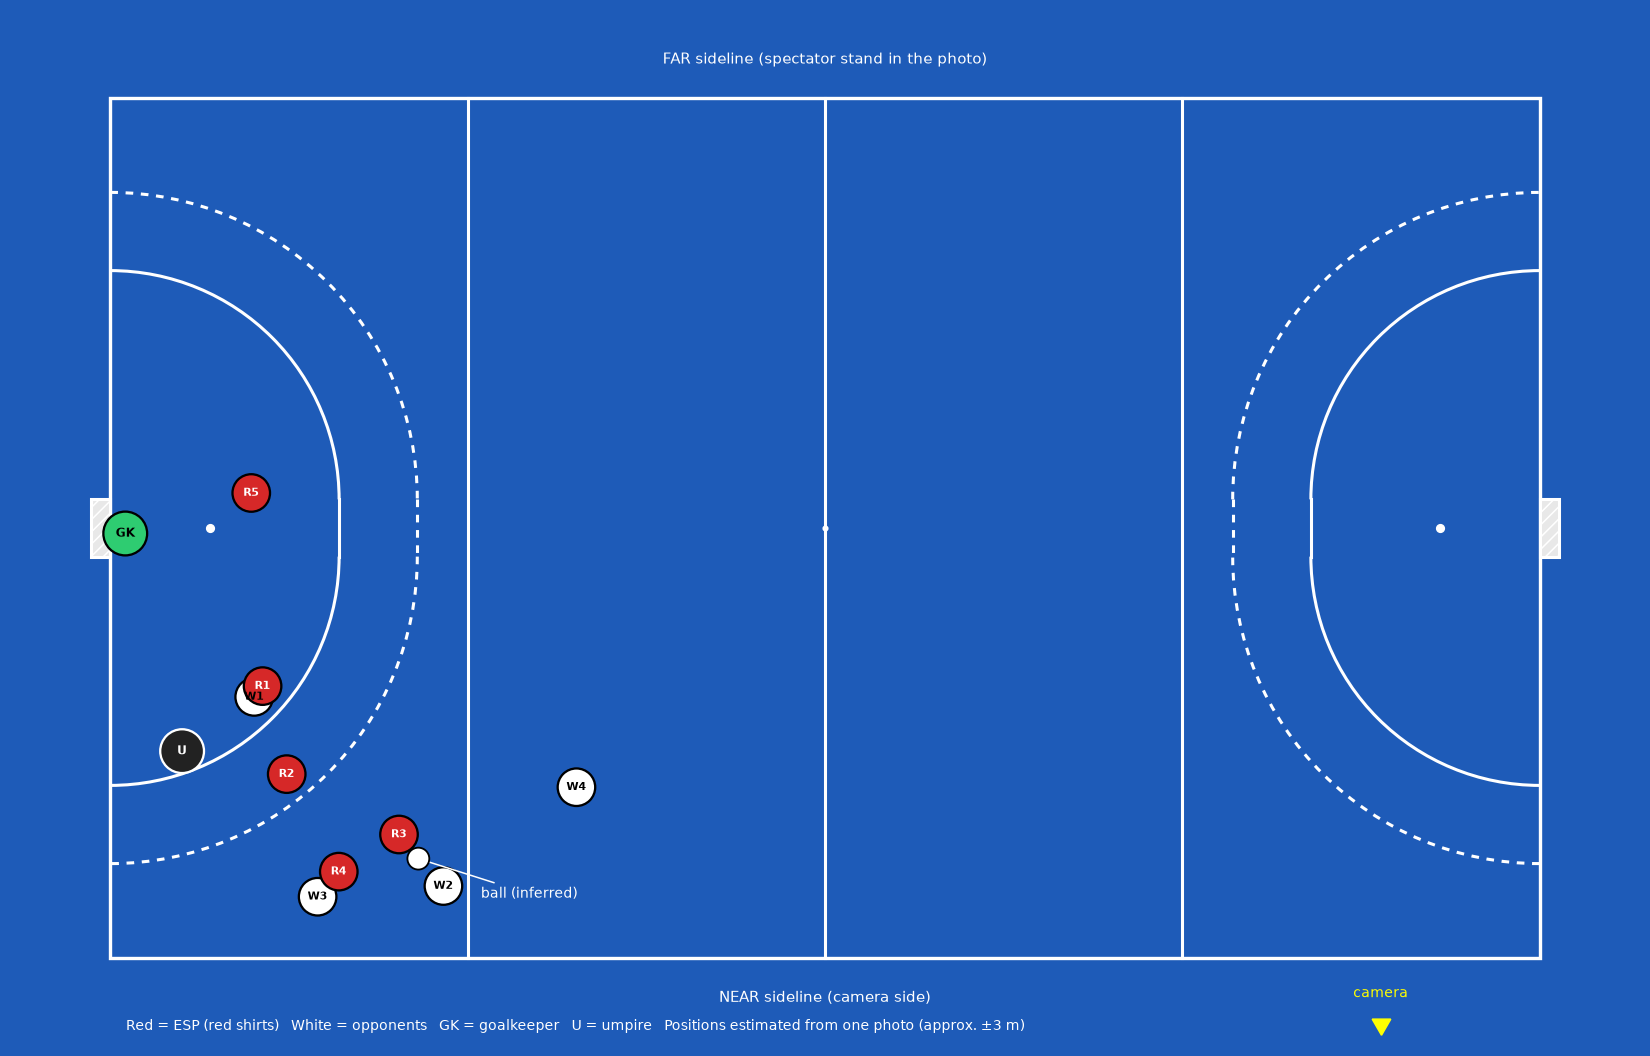
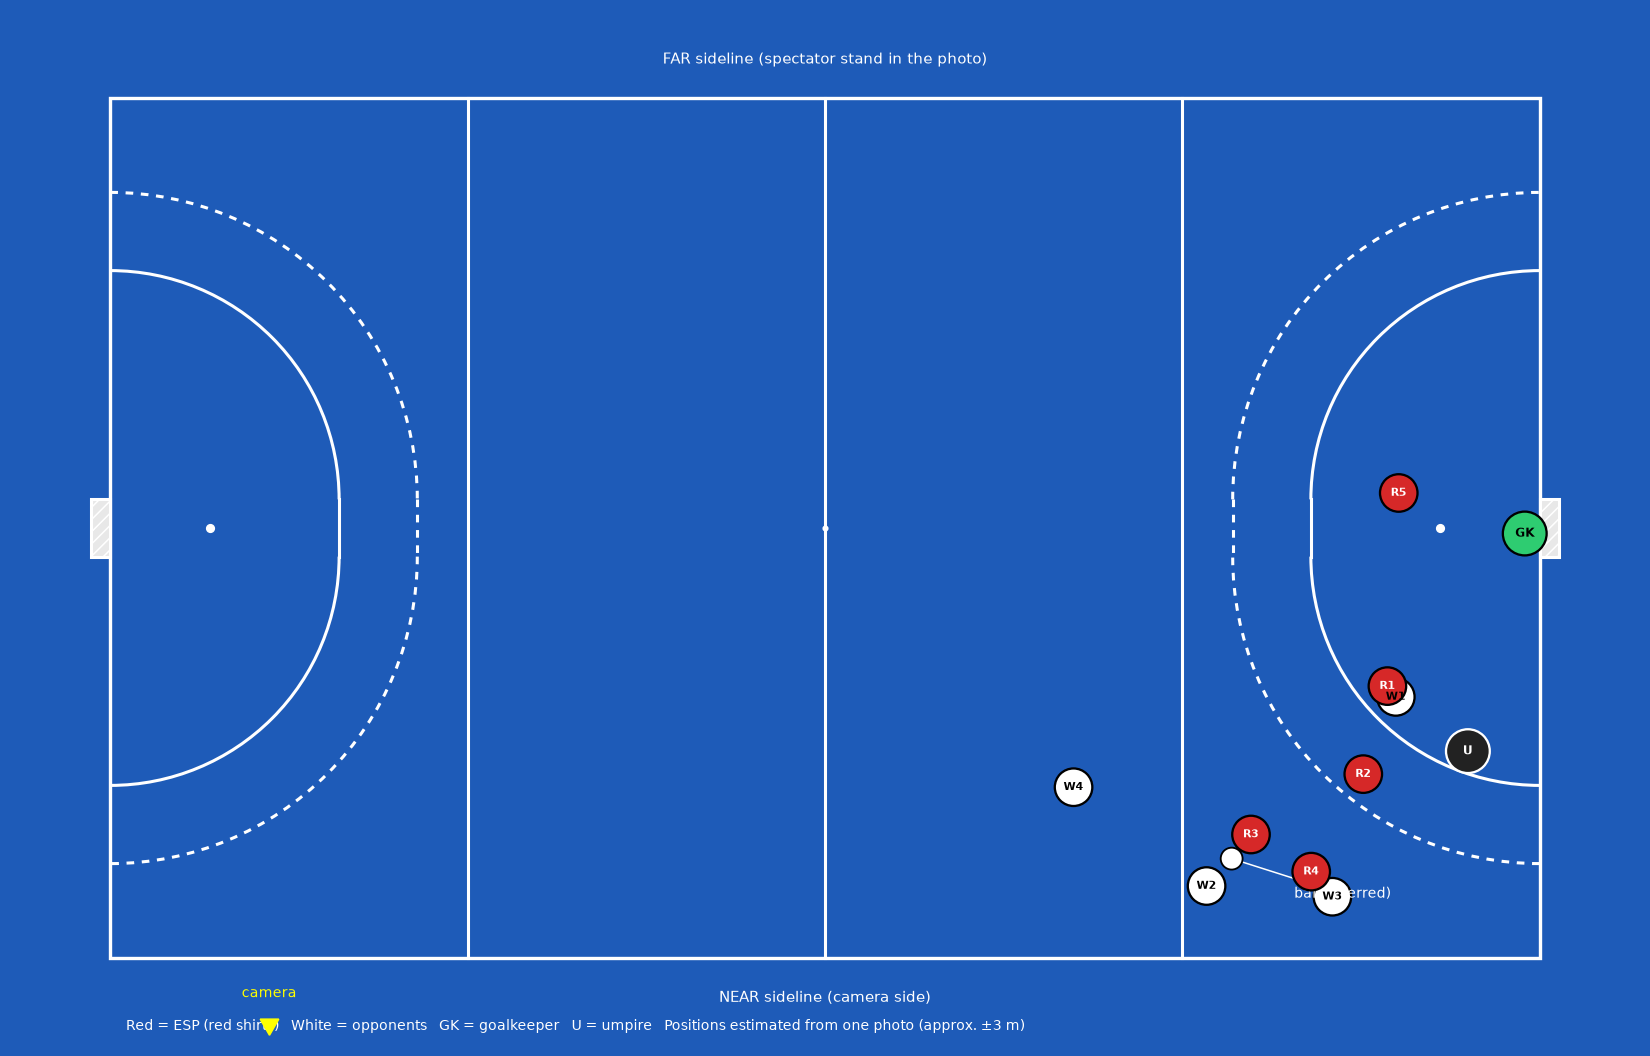
Place the play in the right-hand shooting circle
The goal visible in the photo is the right-hand goal of the top view, so
mirror the along-pitch coordinate and the camera marker.

Claude-Session: https://claude.ai/code/session_01HhHHwvseAPNNu8owcNVDGq

diff --git a/analysis/hockey_topview.py b/analysis/hockey_topview.py
@@ -115,9 +115,11 @@ print("camera X=%.1f Y=%.1f Z=%.1f  az=%.1f deg  tilt=%.1f deg  f=%.0f px  (rms 
       (prm[0], prm[1], prm[2], np.degrees(prm[3]), np.degrees(prm[4]), prm[5],
        np.sqrt(np.mean(np.square(fit.fun)))))
 
-pos = {k: back_project(v, prm) for k, v in players.items()}
+# The goal in the photo is the RIGHT-hand goal of the drawn pitch, so mirror
+# the along-pitch coordinate (the camera sits at the left end of the near stand).
+pos = {k: (L - back_project(v, prm)[0], back_project(v, prm)[1]) for k, v in players.items()}
 for k, (x, y) in pos.items():
-    print("%-4s  X=%5.1f m from goal line   Y=%5.1f m from far sideline" % (k, x, y))
+    print("%-4s  X=%5.1f m from left goal line   Y=%5.1f m from far sideline" % (k, x, y))
 json.dump({"camera": {"X": prm[0], "Y": prm[1], "Z": prm[2], "azimuth_deg": np.degrees(prm[3]),
                       "tilt_deg": np.degrees(prm[4]), "focal_px": prm[5]},
            "positions_m": pos, "pixels": players},
@@ -174,7 +176,7 @@ for k, (x, y) in pos.items():
         ax.add_patch(Circle((x, y), 1.2, fc=fc, ec="black", lw=1.5, zorder=6 + (1 if k[0]=="R" else 0)))
         ax.text(x, y, k, ha="center", va="center", fontsize=7, color=tc, weight="bold", zorder=8)
 
-cam = prm[:2]
+cam = (L - prm[0], prm[1])
 ax.plot(cam[0], min(cam[1], WID + 4.2), marker=(3, 0, 180), ms=14, color="yellow", zorder=6)
 ax.text(cam[0], min(cam[1], WID + 4.2) - 1.7, "camera", ha="center", color="yellow", fontsize=9)
 
